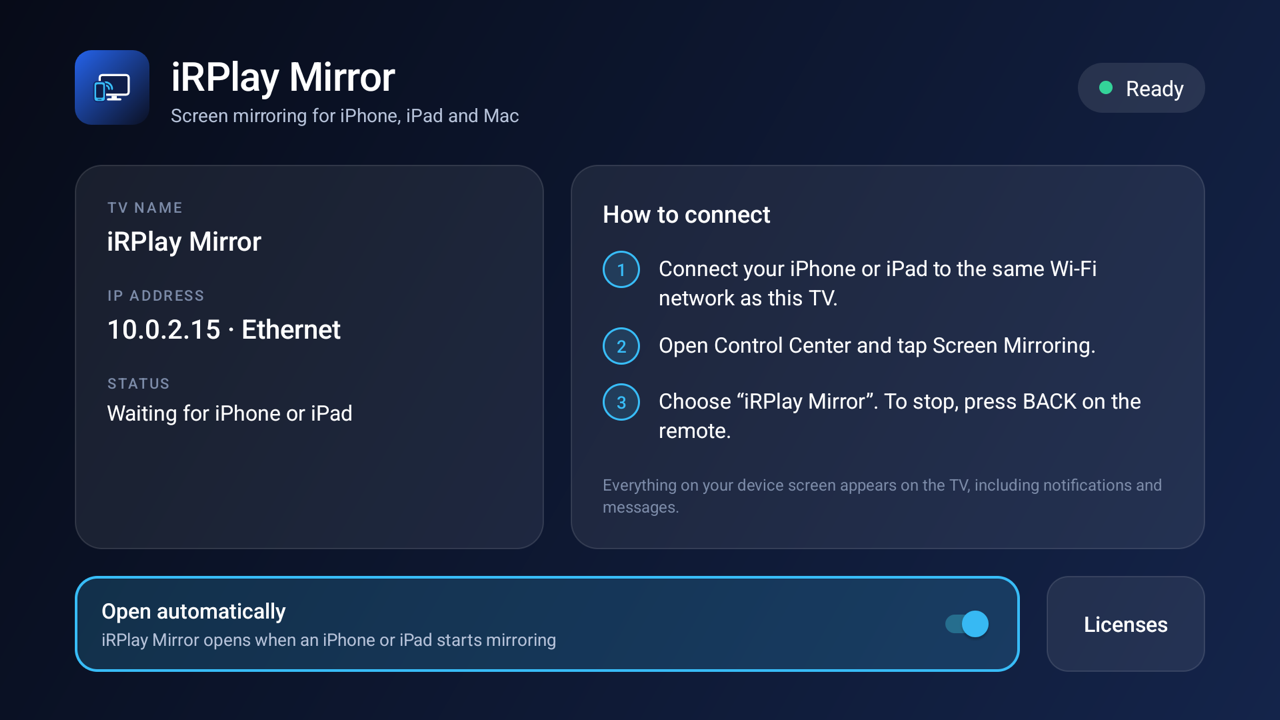
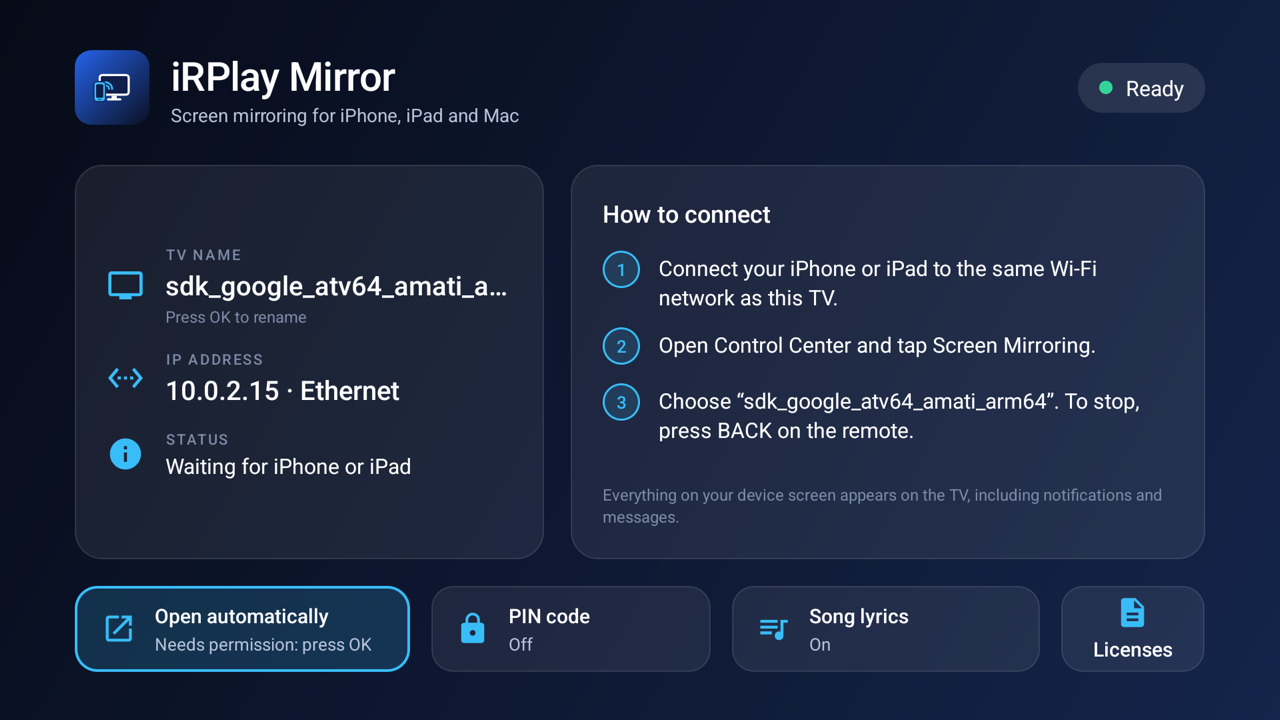
Home: dati del ricevitore allineati, icone su tutte le voci
Le tre voci a sinistra (nome, indirizzo IP, stato) hanno la stessa struttura e lo
stesso rientro; l'icona dell'IP cambia tra cavo e Wi-Fi. I riquadri in basso hanno
un'icona e testi brevi su una riga. Icone da Material Icons (Apache-2.0).

diff --git a/app/src/main/java/com/irplay/tv/ui/MainActivity.kt b/app/src/main/java/com/irplay/tv/ui/MainActivity.kt
@@ -107,9 +107,12 @@ class MainActivity : AppCompatActivity() {
     override fun onStart() {
         super.onStart()
         isVisible = true
-        binding.ipAddress.text = localIpv4()?.let { (ip, ethernet) ->
+        val net = localIpv4()
+        binding.ipAddress.text = net?.let { (ip, ethernet) ->
             getString(if (ethernet) R.string.ip_ethernet else R.string.ip_wifi, ip)
         } ?: getString(R.string.receiver_no_network)
+        // L'icona segue il tipo di collegamento: cavo o Wi-Fi.
+        binding.ipIcon.setImageResource(if (net == null || net.second) R.drawable.ic_ethernet else R.drawable.ic_wifi)
         renderAutoOpen()   // anche al ritorno dalla schermata di sistema dei permessi
         renderName()
         renderPin()
@@ -360,7 +363,6 @@ class MainActivity : AppCompatActivity() {
 
     private fun renderAutoOpen() {
         val enabled = AppSettings.autoOpen(this)
-        binding.autoOpenSwitch.isChecked = enabled
         binding.autoOpenSummary.setText(
             when {
                 !enabled -> R.string.auto_open_off
